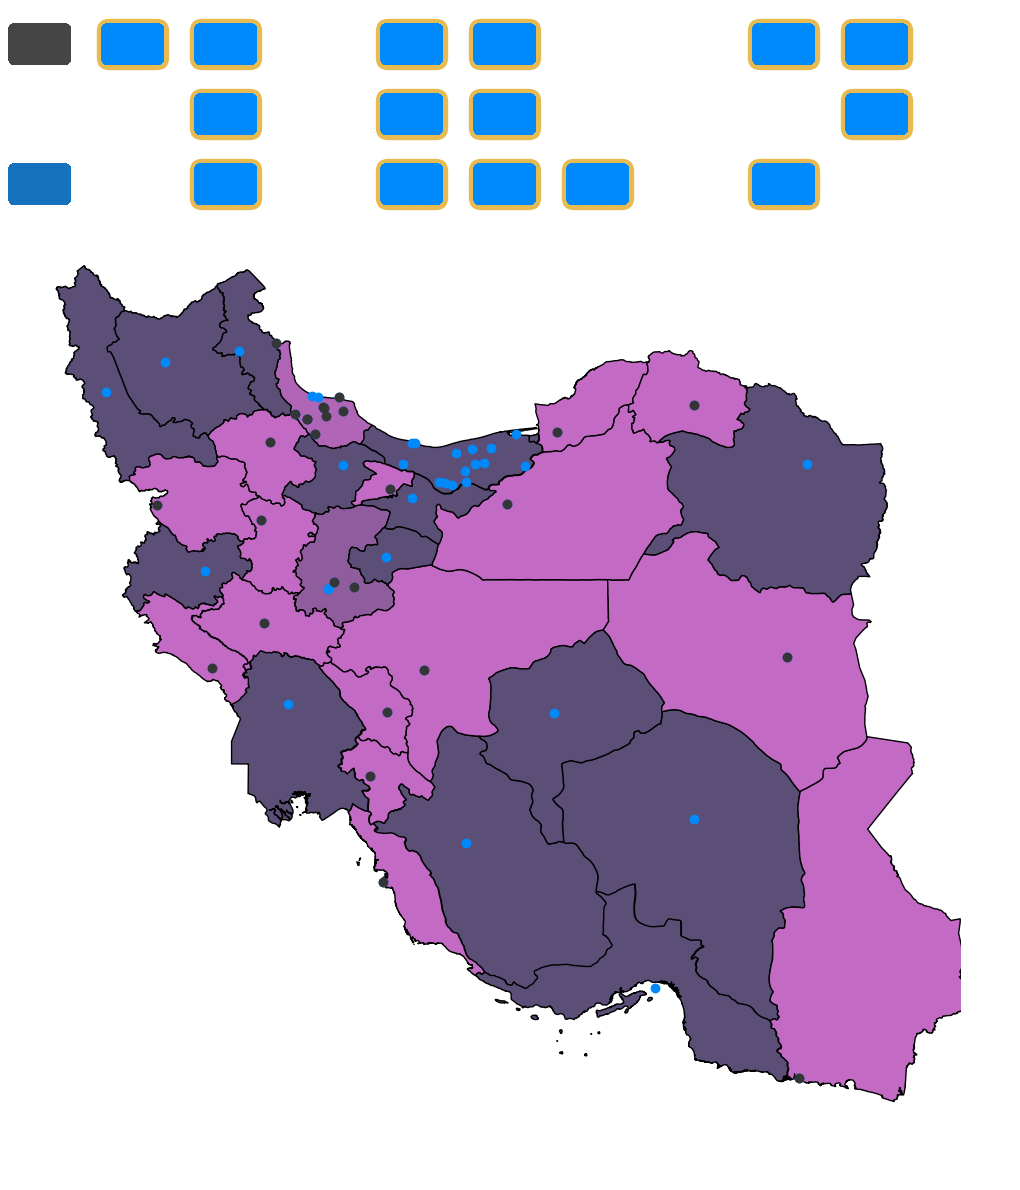
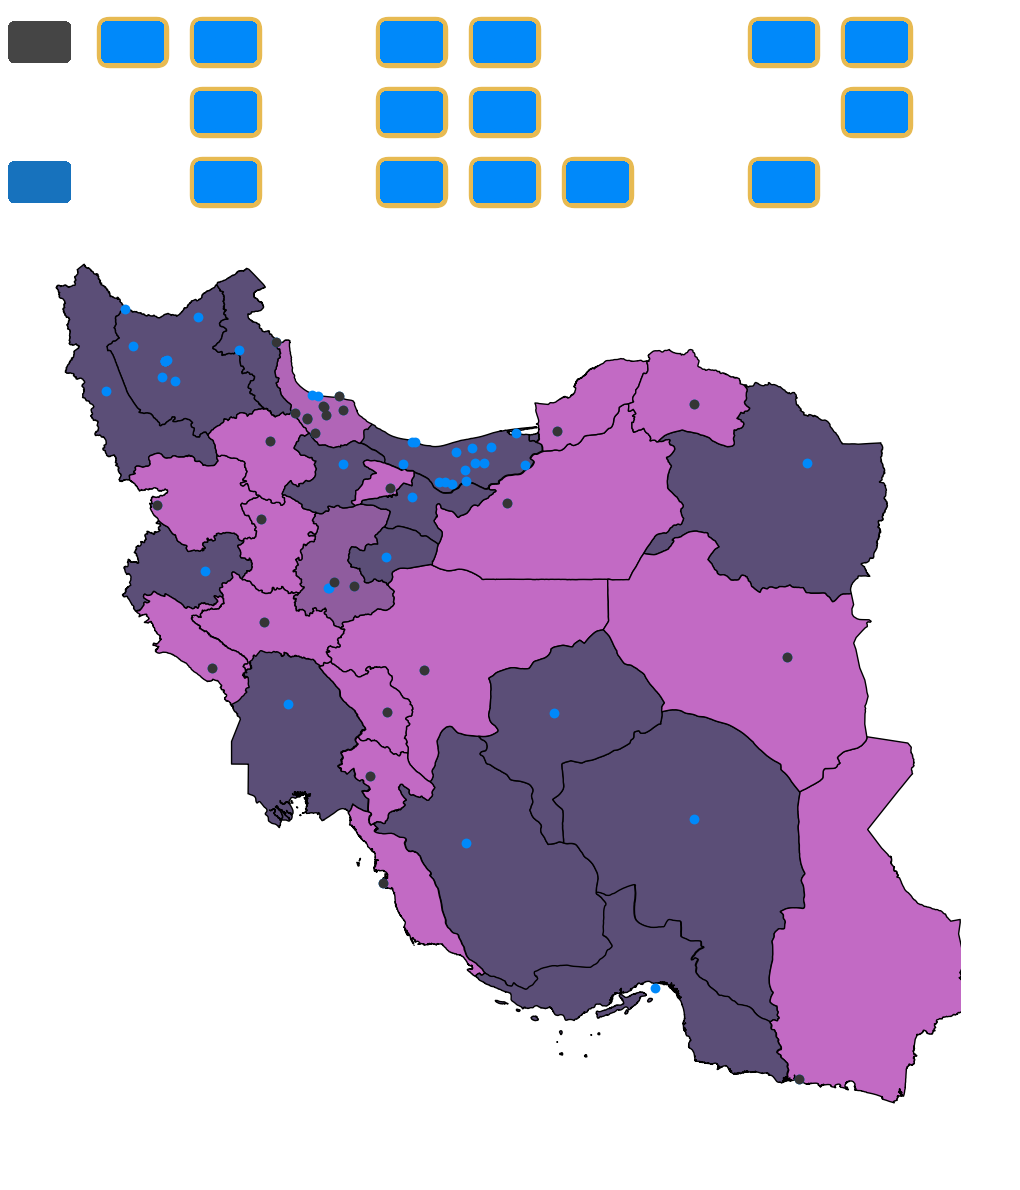
add azerbaijan

diff --git a/main.py b/main.py
@@ -10,7 +10,7 @@ from utils.file_utils import ensure_directory_exists
 
 
 # Set global variables, directories for map creation and site locations
-SCALE = 5
+SCALE = 1
 
 # US National Park Global Variables
 #PATH = "us"
